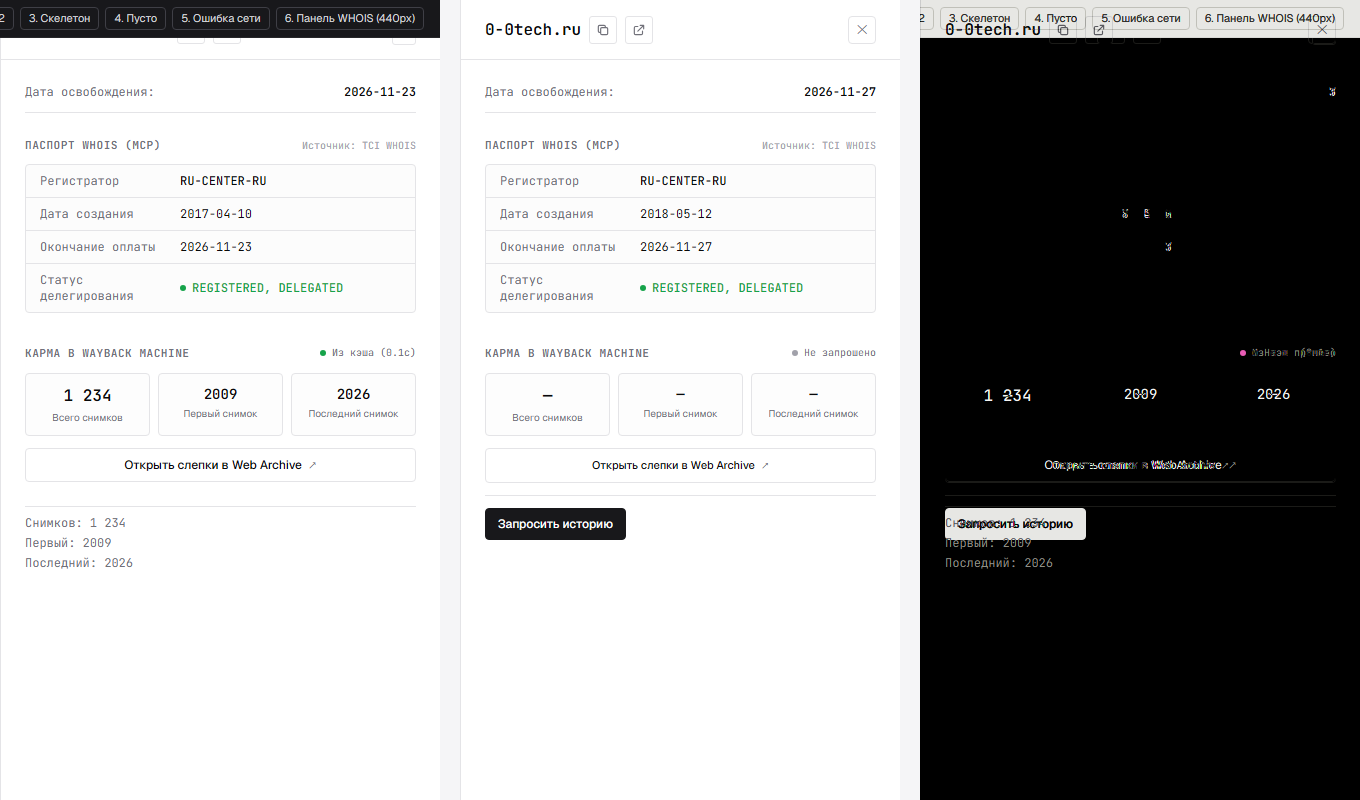
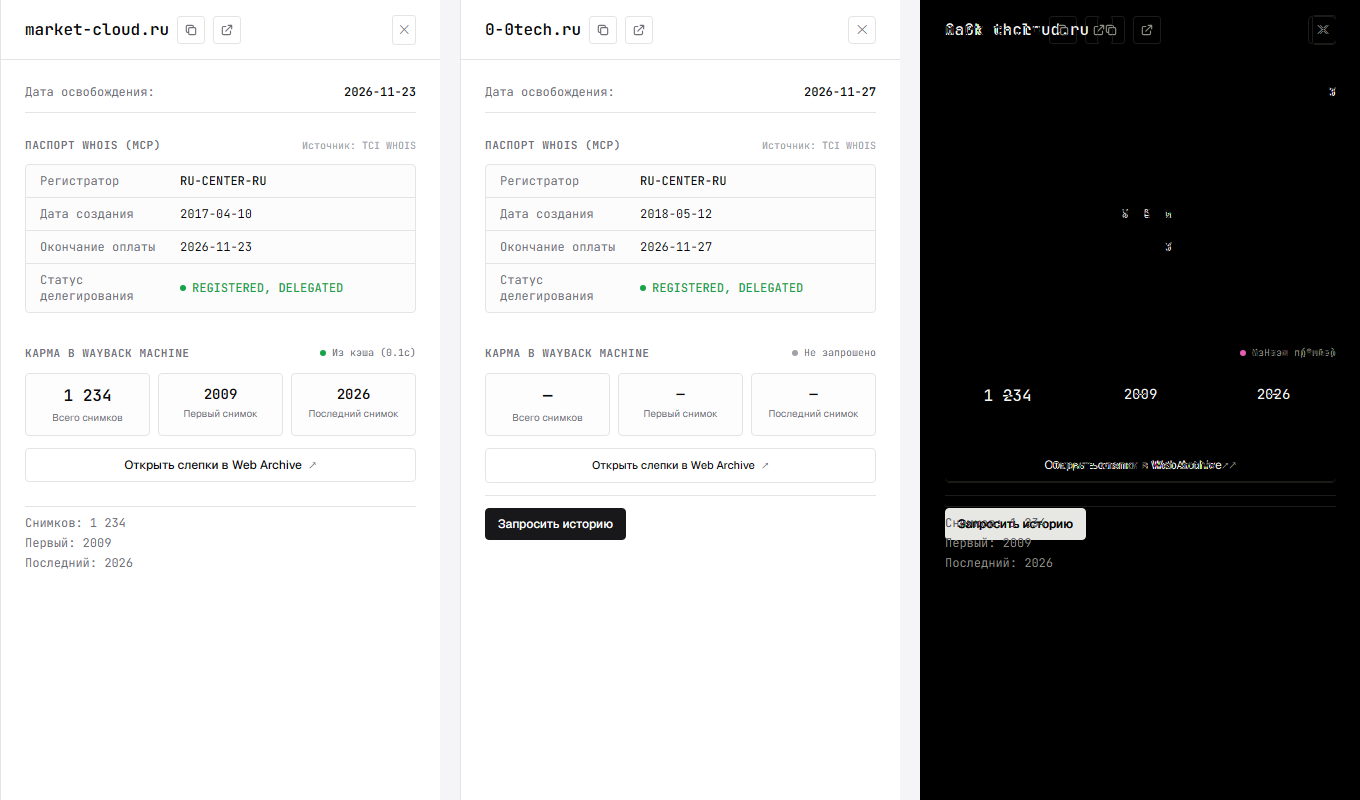
refactor(prototype): move reviewer state switcher from header to floating bottom dock

Changed region(s): [[0.6794, 0.0, 1.0, 0.0625], [0.0, 0.0, 0.3397, 0.0625]]

diff --git a/practices/practice_08/prototype/index.html b/practices/practice_08/prototype/index.html
@@ -126,30 +126,36 @@
         #drawer-backdrop.open {
             display: block;
         }
-        /* Top Switcher Bar for Reviewer */
-        .reviewer-bar {
-            background: #18181B;
-            color: #F4F4F5;
-            border-bottom: 1px solid #27272A;
-            height: 38px;
-            padding: 0 16px;
+        /* Floating State Switcher for Reviewer (вынесен из хедера в плавающий нижний док) */
+        .reviewer-dock {
+            position: fixed;
+            bottom: 20px;
+            left: 50%;
+            transform: translateX(-50%);
+            z-index: 50;
+            background: rgba(24, 24, 27, 0.95);
+            backdrop-filter: blur(8px);
+            border: 1px solid rgba(63, 63, 70, 0.7);
+            border-radius: 9999px;
+            padding: 6px 14px;
             display: flex;
             align-items: center;
-            justify-content: space-between;
+            gap: 8px;
+            box-shadow: 0 10px 25px -5px rgba(0, 0, 0, 0.3), 0 8px 10px -6px rgba(0, 0, 0, 0.2);
+            font-family: 'JetBrains Mono', monospace;
             font-size: 11px;
-            position: sticky;
-            top: 0;
-            z-index: 100;
+            color: #E4E4E7;
         }
         .state-btn {
-            padding: 2px 8px;
-            border-radius: 4px;
+            padding: 3px 10px;
+            border-radius: 9999px;
             border: 1px solid #3F3F46;
             background: transparent;
             color: #D4D4D8;
             font-size: 11px;
             cursor: pointer;
             transition: all 0.12s ease;
+            white-space: nowrap;
         }
         .state-btn:hover {
             background: #27272A;
@@ -165,26 +171,8 @@
 </head>
 <body class="bg-base text-text min-h-screen flex flex-col antialiased">
 
-    <!-- Prototype Reviewer Switcher Bar (Панель переключения состояний для ревьюера) -->
-    <div class="reviewer-bar">
-        <div class="flex items-center gap-2">
-            <span class="inline-block w-2 h-2 rounded-full bg-emerald-400"></span>
-            <span class="font-semibold uppercase tracking-wider text-[10px] text-zinc-300">Интерактивный прототип (Практика 8)</span>
-            <span class="text-zinc-500 hidden md:inline">|</span>
-            <span id="current-state-desc" class="text-zinc-400 hidden sm:inline">1. Каталог всех доменов • Таблица данных высокой плотности</span>
-        </div>
-        <div class="flex items-center gap-1.5" id="state-buttons">
-            <button onclick="setPrototypeState('default')" class="state-btn active" data-state="default">1. Каталог</button>
-            <button onclick="setPrototypeState('input')" class="state-btn" data-state="input">2. Валидация RE2</button>
-            <button onclick="setPrototypeState('loading')" class="state-btn" data-state="loading">3. Скелетон</button>
-            <button onclick="setPrototypeState('empty')" class="state-btn" data-state="empty">4. Пусто</button>
-            <button onclick="setPrototypeState('error')" class="state-btn" data-state="error">5. Ошибка сети</button>
-            <button onclick="setPrototypeState('modal')" class="state-btn" data-state="modal">6. Панель WHOIS (440px)</button>
-        </div>
-    </div>
-
     <!-- 1. Верхняя панель навигации (минималистичная, высота 52px) -->
-    <header class="h-[52px] border-b border-muted-border bg-base px-6 sticky top-[38px] z-40 flex items-center justify-between">
+    <header class="h-[52px] border-b border-muted-border bg-base px-6 sticky top-0 z-40 flex items-center justify-between">
         <!-- Название сервиса слева -->
         <div class="flex items-center gap-3">
             <div class="w-6 h-6 rounded-[4px] bg-accent flex items-center justify-center font-mono font-bold text-xs text-white">
@@ -226,7 +214,7 @@
         <div id="section-all" class="flex flex-col gap-3">
 
             <!-- Липкая панель фильтров (sticky bar) -->
-            <div class="sticky top-[90px] z-30 bg-base pt-1 pb-3 border-b border-muted-border flex flex-col gap-2.5">
+            <div class="sticky top-[52px] z-30 bg-base pt-1 pb-3 border-b border-muted-border flex flex-col gap-2.5">
                 
                 <!-- Главная строка поиска с поддержкой регулярных выражений (Google RE2) -->
                 <div class="relative flex items-center">
@@ -668,6 +656,23 @@
 
         </div>
 
+    </aside>
+
+    <!-- Floating State Switcher for Reviewer (вынесен из хедера в плавающий нижний тулбар) -->
+    <aside class="reviewer-dock" aria-label="Переключатель состояний прототипа">
+        <div class="flex items-center gap-2 pr-2 border-r border-zinc-700">
+            <span class="inline-block w-2 h-2 rounded-full bg-emerald-400"></span>
+            <span class="font-semibold uppercase tracking-wider text-[10px] text-zinc-300 hidden md:inline">Состояния AI-макета:</span>
+        </div>
+        <div class="flex items-center gap-1.5" id="state-buttons">
+            <button type="button" onclick="setPrototypeState('default')" class="state-btn active" data-state="default">1. Каталог</button>
+            <button type="button" onclick="setPrototypeState('input')" class="state-btn" data-state="input">2. Валидация RE2</button>
+            <button type="button" onclick="setPrototypeState('loading')" class="state-btn" data-state="loading">3. Скелетон</button>
+            <button type="button" onclick="setPrototypeState('empty')" class="state-btn" data-state="empty">4. Пусто</button>
+            <button type="button" onclick="setPrototypeState('error')" class="state-btn" data-state="error">5. Ошибка сети</button>
+            <button type="button" onclick="setPrototypeState('modal')" class="state-btn" data-state="modal">6. Панель WHOIS (440px)</button>
+        </div>
+        <span id="current-state-desc" class="hidden"></span>
     </aside>
 
     <!-- Notification Toast for Copy -->
